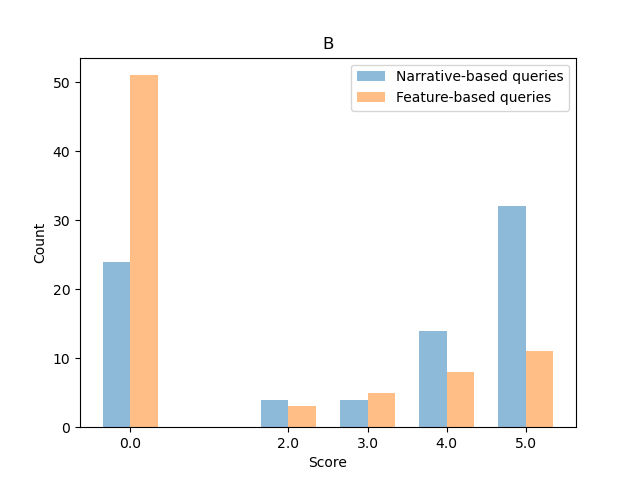
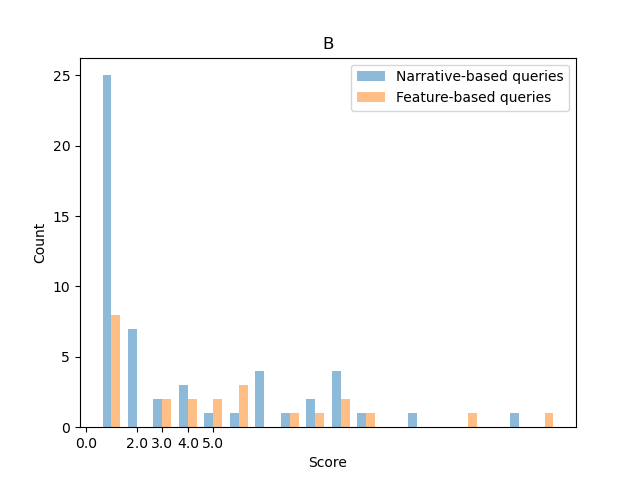
Fixed script to generate fig2b

diff --git a/figure2.py b/figure2.py
@@ -92,10 +92,10 @@ this_min = int(max(min(rank_counts_file1.index.tolist() + rank_counts_file2.inde
 rank_counts_file1 = set_empty_indices_to_zero(rank_counts_file1, this_min, this_max)
 rank_counts_file2 = set_empty_indices_to_zero(rank_counts_file2, this_min, this_max)
 
-bar3 = ax2.bar(index - bar_width/2, rank_counts_file1, bar_width, alpha=0.5, label=file1_label)
-bar4 = ax2.bar(index + bar_width/2, rank_counts_file2, bar_width, alpha=0.5, label=file2_label)
+bar3 = ax2.bar(rank_counts_file1.index - bar_width/2, rank_counts_file1, bar_width, alpha=0.5, label=file1_label)
+bar4 = ax2.bar(rank_counts_file2.index + bar_width/2, rank_counts_file2, bar_width, alpha=0.5, label=file2_label)
 
-ax2.set_xlabel('Score')
+ax2.set_xlabel('Rank')
 ax2.set_ylabel('Count')
 ax2.set_title('B')
 ax2.set_xticks(index)
